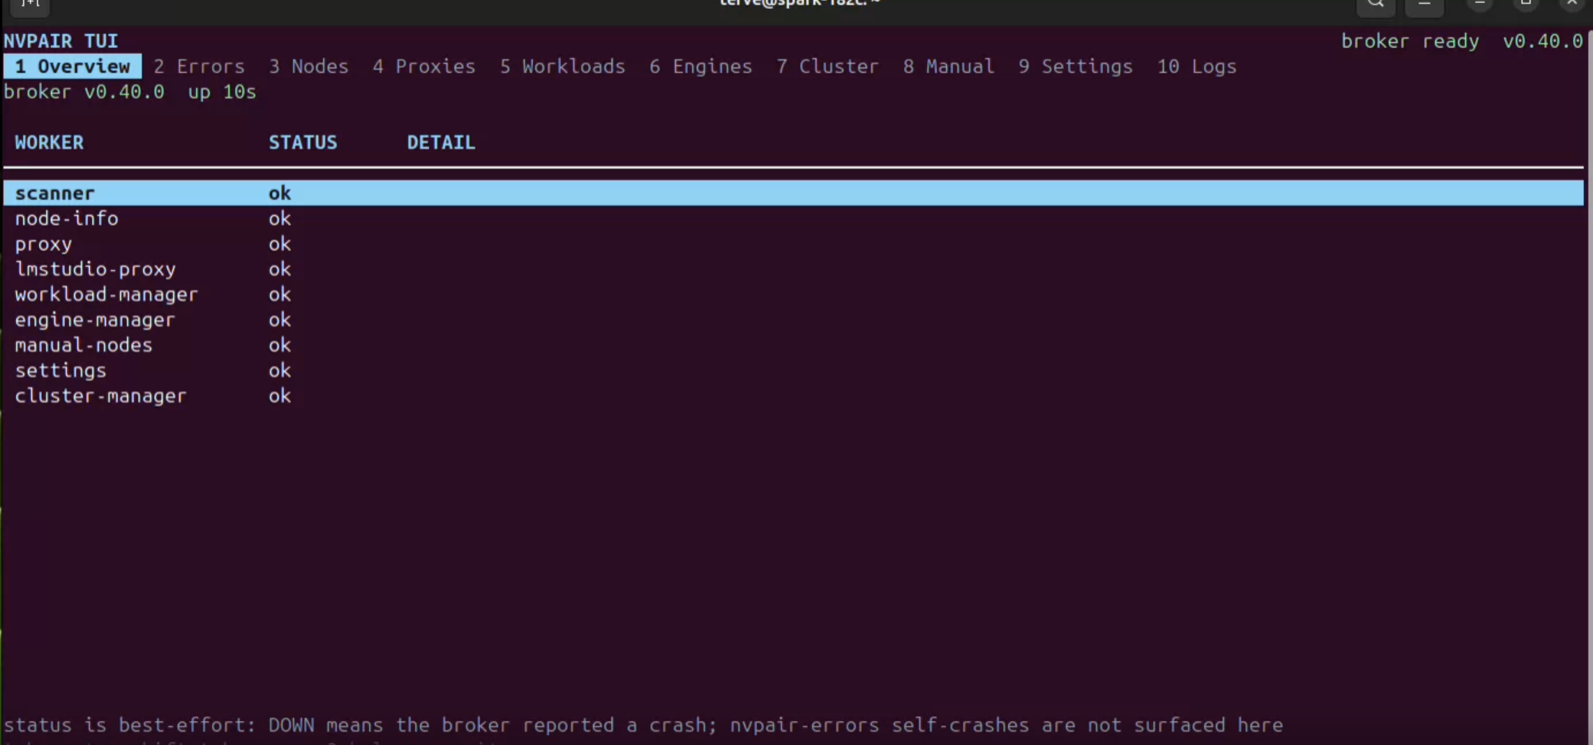
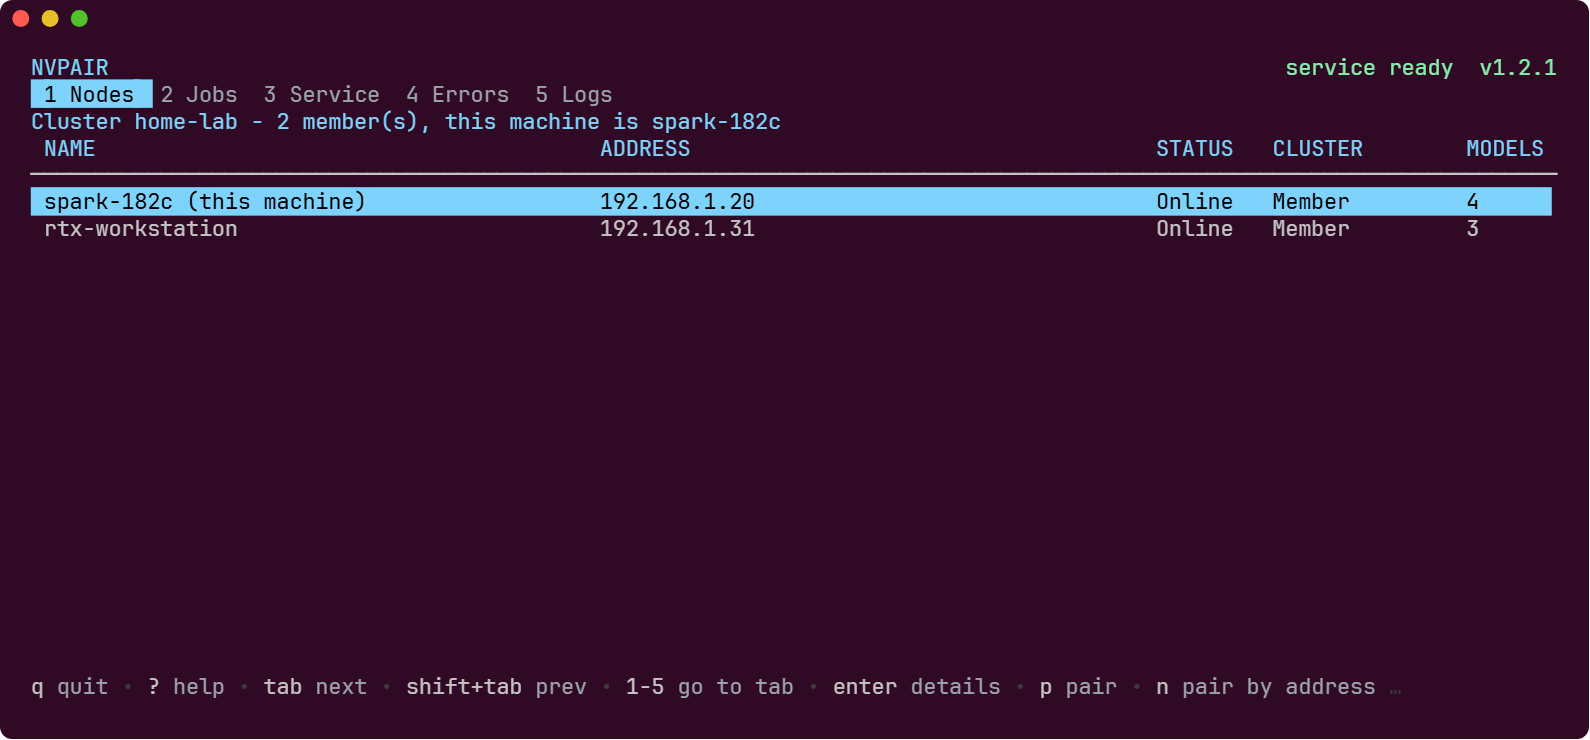
Cover llama.cpp across the docs and refresh the terminal interface screenshots (#151)
## Description

A documentation pass over the release that landed in `develop` with
#147, #148, #117, #150, #145, and #153. It covers llama.cpp everywhere
the docs list engines, replaces the terminal-interface screenshots of
the old ten-tab interface, and corrects docs that no longer match the
code.

The branch was replayed onto `develop` after the stack was
squash-merged, so it carries only the docs commits.

<!-- pair-release-intent:v1 -->
### Changelog title
n/a

### Changelog body
n/a

### Bumps
- services: none
- nvpair-cluster-manager: none
- nvpair-engine-manager: none
- nvpair-errors: none
- nvpair-job-scheduler: none
- nvpair-manual-nodes: none
- nvpair-node-info: none
- nvpair-node-scanner: none
- nvpair-node-settings: none
- nvpair-proxy: none
- nvpair-tui: none
- nvpair-ui-broker: none
- nvpair-workload-manager: none
<!-- /pair-release-intent:v1 -->

## Scope

**Terminal interface screenshots**
(`docs/assets/onboarding/terminal-interface/`)

- The three existing images showed the ten-tab interface from before
#117. They are replaced with renders of the current Nodes, pairing, and
Jobs views, at the same size as the originals.
- New `04-tui-node-detail.png`: a machine's Engines and Models panes
with Ollama, LM Studio, and llama.cpp. It is placed in "Look at One
Machine".
- The renders drive the real `ui` views and styles with sample data for
two machines, so the layout, columns, and footer are the interface's own
[…]

diff --git a/services/nvpair-tui/README.md b/services/nvpair-tui/README.md
@@ -33,7 +33,7 @@ of its own.
 | **Jobs** | Inference work across the cluster (`workloads:get-initial` plus the live `workloads:upsert` / `workloads:remove` stream), headed by the proxy endpoints local clients connect to. `FROM` and `RAN ON` are the job's `originatedFrom` and `scheduledOn` nodes. `a` toggles finished work. `t` starts or stops the Inference Demo — a sixty-second burst of synthetic traffic through those endpoints, which is why it lives here rather than with the service controls: the ports it needs are already on this tab and the jobs it produces land in the table below. |
 | **Service** | Broker version and uptime (`ping`), a row per supervised worker derived from `supervisor:subprocess-crashed:*` errors, the cluster name, the fleet log level (a picker over the four `applog` levels), and a confirmed data reset. The reset uninstalls the engines PAIR installed before it quits and deletes the data directory — engine files live outside that directory when a vendor installer chose their location — and keeps every engine's downloaded models. Ports are not here — they live on the node detail screen beside the engine each one serves. `force-ports` and `cluster-auto-sync` are persisted by `nvpair-node-settings` but not offered: nothing currently acts on either. |
 | **Errors** | The service-error datastore (`errors:get-initial` plus live `errors:update`); `c` clears the selected entry. Only entries this node reported are clearable: `errors:clear` is delete-by-id on the receiving node and cross-node propagation is unbuilt (`shared/errors` stamps `ClearedBy` for it and ignores it), so clearing a peer's entry is reverted by the next sync. The broker acknowledges the relay rather than the outcome, so the reply cannot be used to detect it — the key is withdrawn for a peer's entry instead, naming the node to clear it from. Node ids are resolved to names, and a line under the table carries the selected entry's engine, operation, model, and suggested action. |
-| **Logs** | The broker's and workers' stderr, with a substring filter (`/`), a follow toggle (`t`, for tail — `f` belongs to the viewport's paging), and save-to-file (`s`). |
+| **Logs** | The broker's and workers' stderr, plus this program's own log lines while it runs, with a substring filter (`/`, cleared with `c`), a follow toggle (`t`, for tail — `f` belongs to the viewport's paging), and save-to-file (`s`). |
 
 Diagnostics come last, errors before logs, which is the order you consult them
 in. The **Errors** tab carries its active count in its own label (`Errors (2)`),
@@ -86,11 +86,14 @@ ships in `cli-bin` and the app's updater replaces it.
 `enter` on a node opens a full-screen drill-down with two panes, switched with
 `h`/`l`:
 
-- **Engines** — install (`i`), start (`s`), stop (`x`), and, on this machine
-  only, restart (`r`), uninstall (`u`, confirmed with `y`), the engine's own port (`e`, via
-  `engine:set-port`), and the client-facing port of the proxy fronting it
-  (`p`, via `<prefix>:set-port`). Both ports are shown per engine because they
-  are easily confused and were previously configured on different tabs.
+- **Engines** — install (`i`), start (`s`), stop (`x`); the engine's own port
+  (`e`), the client-facing port of the proxy fronting it (`p`), and the startup
+  arguments (`a`), all written together through `engine:get-settings` /
+  `engine:preview-settings` / `engine:apply-settings`; and, on this machine
+  only, restart (`r`) and uninstall (`u`, confirmed with `y`). On this machine
+  both ports are shown per engine because they are easily confused; a peer's
+  screen shows the engine port only, though `p` still writes that peer's proxy
+  port.
 - **Models** — the inventory per engine with loaded state, plus browse-and-download
   (`p`), download by name (`n`), load (`enter`), eject (`e`), and delete (`d`,
   confirmed with `y`). Every destructive key arms on the first press and acts
@@ -104,9 +107,10 @@ one whose reply says it is `searchable` — llama.cpp's, a slice of Hugging Face
 `/` sends the query upstream instead, and `c` returns to the browse list.
 
 Both panes work on remote cluster peers through the engine manager's
-`engine:remote-*` methods. Restart, uninstall, and the port change need process
-ownership on the target host, so they are hidden on a peer rather than offered
-and then failed.
+`engine:remote-*` methods. Restart and uninstall need process ownership on the
+target host, so they are hidden on a peer rather than offered and then failed.
+The settings keys stay: the engine manager relays them, and whether a given
+engine accepts the write is its own answer.
 
 A remote node's models come from the discovery snapshot, which the broker
 enriches from each peer's engine manager — no extra request. This machine's come
@@ -136,13 +140,14 @@ installed `bin/` layout). Override with `--broker-path`:
 ```sh
 nvpair-tui                                   # broker is a sibling binary
 nvpair-tui --broker-path /opt/nvpair/bin/nvpair-ui-broker
-nvpair-tui --log-level debug                 # own logging (to stderr)
+nvpair-tui --log-level debug                 # own logging (Logs tab while running)
 nvpair-tui --appearance light                # if the colours come out wrong
 nvpair-tui --version
 ```
 
-Logging goes to stderr (the broker's logs are shown inside the **Logs**
-tab, not on the terminal), so it never corrupts the full-screen UI.
+While the full-screen UI runs, its own log lines go to the **Logs** tab beside
+the broker's, so nothing is drawn over the display; before startup and after
+exit they go to stderr.
 
 ### Colours
 

diff --git a/services/nvpair-ui-broker/README.md b/services/nvpair-ui-broker/README.md
@@ -120,7 +120,7 @@ Within the process the boundaries are finer — a facade that loses its bind
 race, cannot be moved to a free port, or panics while handling a request is
 withdrawn or answered with an error on its own, leaving the others serving.
 
-Ollama's standalone default is `:11435`; with managed port ownership enabled (the default), the broker starts settings and engine-manager first, claims `:11434` with that facade, and only then moves a stopped default-port Ollama backend to a free port. Custom backend ports are preserved. When the inherited `OLLAMA_HOST` names a distinct local plaintext port, the broker also gives the facade that normalized loopback-only alias so clients already using the variable enter the same routing path; `localhost` reserves both canonical loopback families atomically, while remote and HTTPS targets are ignored. The alias port is reserved against every configured engine, local or remote engine start override, every facade's control plane, and the managed Ollama and LM Studio backend port plans, so a backend that has to move can never land on the alias. A running Ollama or unknown owner on either requested port is never stopped or moved: the primary uses a safe fallback when needed, and an occupied alias remains with its owner while the broker reports a warning.
+Ollama's standalone default is `:11435`; with managed port ownership enabled (the default), the broker starts settings and engine-manager first, claims `:11434` with that facade, and only then moves a stopped default-port Ollama backend to a free port. Custom backend ports are preserved. When the inherited `OLLAMA_HOST` names a distinct local plaintext port, the broker also gives the facade that normalized loopback-only alias so clients already using the variable enter the same routing path; `localhost` reserves both canonical loopback families atomically, while remote and HTTPS targets are ignored. The alias port is reserved against every configured engine, local or remote engine start override, every facade's control plane, and every managed engine's backend port plan, so a backend that has to move can never land on the alias. A running Ollama or unknown owner on either requested port is never stopped or moved: the primary uses a safe fallback when needed, and an occupied alias remains with its owner while the broker reports a warning.
 
 llama.cpp is a managed engine: engine-manager owns its lifecycle and starts it
 on its configured loopback port, `:8081` by default. The broker places its
@@ -429,7 +429,7 @@ Two relay-specific error cases:
 
 #### `ollama-proxy:set-port` / `lmstudio-proxy:set-port` / `llamacpp-proxy:set-port`
 
-**Intercepted, not relayed verbatim.** For every engine profile, a port-only caller — `nvpair-tui` is the one in tree — gets to move a single port without rendering the whole launch settings form, but the change still runs through the same authoritative settings operation the desktop editor uses, so a port set from the terminal cannot diverge from one set from the UI. The namespace selects the engine. The broker reads that engine's current settings, substitutes the requested proxy port, and applies the result while preserving the server port and launch arguments. Accepted settings are saved in the settings journal.
+**Intercepted, not relayed verbatim.** For every engine profile, a port-only caller (none in tree; `nvpair-tui` uses `engine:apply-settings`) gets to move a single port without rendering the whole launch settings form, but the change still runs through the same authoritative settings operation the desktop editor uses, so a port set from the terminal cannot diverge from one set from the UI. The namespace selects the engine. The broker reads that engine's current settings, substitutes the requested proxy port, and applies the result while preserving the server port and launch arguments. Accepted settings are saved in the settings journal.
 
 A malformed request, missing port, or port outside `1`–`65535` is refused with error `-32602 "port must be between 1 and 65535"`. A **requested port that is already in use or reserved** by a PAIR service, another configured engine/proxy, or the engine's own server port is refused with error `-32000 "resolve settings errors and port conflicts before applying"`. The broker does not pick a different port on the caller's behalf. Retry with a free port. A request that collides with an inherited `OLLAMA_HOST` alias is refused with its own message naming that alias. The response echoes the requested port (`{"port": <requested>}`) once it is bound.
 

diff --git a/services/nvpair-job-scheduler/spec.md b/services/nvpair-job-scheduler/spec.md
@@ -55,9 +55,9 @@ capacity, model locality, latency, and affinity can grow later behind the same
 - **Simultaneous local burst**: before each auto-routed inference forward, the
   proxy atomically increments a local reservation for its chosen node. Concurrent
   requests therefore see one another even before workload feedback completes.
-- **Cross-engine contention**: an Ollama workload and an LM Studio workload both
-  consume the destination node's execution resources, so either one changes both
-  engine outputs.
+- **Cross-engine contention**: Ollama, LM Studio, and llama.cpp workloads all
+  consume the destination node's execution resources, so any one of them changes
+  every engine output.
 - **Periodic reconciliation**: the runtime-adjustable timer recomputes the same
   order as a safety net even when no fresh event arrives.
 - **Load shifts**: as a node drains it rises toward the top; as it fills it sinks; a
@@ -100,7 +100,7 @@ capacity, model locality, latency, and affinity can grow later behind the same
 - **Manual pin precedence (decided — manual pin wins).** A user `node/select` pin
   overrides the list; the list governs only auto routing (§7.3).
 - **`node/set-priority` proxy semantics (decided — GPU-aware reservations).**
-  Both proxies store the ordered nodes and optional ranks. For auto-routed
+  Every engine facade stores the ordered nodes and optional ranks. For auto-routed
   model-bearing inference they atomically minimize
   `rank.pending + rank.gpuPressure + localReservations` within the best
   model-eligibility tier,
@@ -147,7 +147,7 @@ capacity, model locality, latency, and affinity can grow later behind the same
   (`discovery:nodes-changed`).
 - After each meaningful input change, and on a fixed reconciliation interval
   (default 1 s, runtime-adjustable), compute one node-wide GPU-aware order (§7.2)
-  and publish it through both engine outputs. **Emit `schedule:priority` only when
+  and publish it through every engine output. **Emit `schedule:priority` only when
   its order, pending counts, or pressure changed** (a forced `scheduler:tick`
   re-emits regardless).
 - Emit `errors:report` / `errors:clear` for the Broker to forward to `nvpair-errors`
@@ -157,7 +157,7 @@ capacity, model locality, latency, and affinity can grow later behind the same
 - No network listener, no mDNS, no port — stdio/`--ipc` only.
 - Never addresses a proxy; all delivery/liveness/resync is the Broker's (§7.4).
 - Stateless across restarts; recomputed from live inputs.
-- A fault on one engine must not block the other or crash the loop.
+- A fault on one engine must not block the others or crash the loop.
 - Windows / macOS / Linux × amd64 / arm64. Serialize `stdout` so frames never
   interleave.
 
@@ -205,7 +205,7 @@ Requests (Broker → scheduler):
 
 | Method | Params | Result |
 |--------|--------|--------|
-| `scheduler:get-status` | — | `{ interval_ms, engines: { ollama: EngineSchedule, lmstudio: EngineSchedule } }` |
+| `scheduler:get-status` | — | `{ interval_ms, engines: { ollama: EngineSchedule, lmstudio: EngineSchedule, llamacpp: EngineSchedule } }` |
 | `scheduler:get-interval` | — | `{ interval_ms }` |
 | `scheduler:set-interval` | `{ interval_ms }` | `{ interval_ms }` — live; clamped to the floor (§7.5); effective next tick |
 | `scheduler:tick` | — | `{ ticked: true }` — force an immediate recompute + re-emit (tests/debug) |
@@ -215,7 +215,7 @@ Requests (Broker → scheduler):
 `EngineSchedule`:
 ```json
 {
-  engine: string          // "ollama" | "lmstudio"
+  engine: string          // "ollama" | "lmstudio" | "llamacpp"
   emitted: [NodeRank]      // last order emitted (empty if none yet)
   lastEmittedAt: number    // epoch ms; 0 if never
 }

diff --git a/services/installer/linux/INSTALL.md b/services/installer/linux/INSTALL.md
@@ -13,7 +13,7 @@ API and supervises the workers under `bin/`.
 ## 1. Extract
 
 ```bash
-tar xf NVIDIA-Personal-AI-Router-<version>-linux-amd64.tar.gz
+tar xf NVIDIA-Personal-AI-Router-<version>-linux-amd64.tar.gz   # or -linux-arm64
 cd NVIDIA-Personal-AI-Router-<version>
 ```
 
@@ -32,7 +32,8 @@ NVIDIA-Personal-AI-Router-<version>/
 │   ├── nvpair-engine-manager
 │   ├── nvpair-node-settings
 │   ├── nvpair-cluster-manager
-│   └── nvpair-job-scheduler
+│   ├── nvpair-job-scheduler
+│   └── nvpair-tui                    # terminal interface; starts the broker beside it
 └── INSTALL.md                     # this file
 ```
 
@@ -64,9 +65,14 @@ The workers store configuration in `~/.config/Nvidia Corporation/Personal AI Rou
 (manual-node list, log-level preference, cluster identity/pins, etc.). Remove
 that directory too if you want a fully clean slate.
 
+Downloaded models are not in either directory. Each engine keeps them in its own
+store — `~/.ollama`, `~/.lmstudio/models`, and `~/.llamacpp` — so deleting the
+bundle or the configuration directory leaves them in place.
+
 ## Requirements
 
-- 64-bit Linux on `x86_64`. ARM builds are not produced yet.
+- 64-bit Linux on `x86_64` or `arm64` (`aarch64`). Use the archive whose name
+  matches your machine.
 - mDNS on UDP 5353. The workers run their own — a custom per-interface responder
   (`nvpair-shared/mdns`) plus a `grandcat/zeroconf` browser (`nvpair-shared/discovery`),
   bound with `SO_REUSEADDR` — and coexist fine with a system responder like
@@ -77,9 +83,10 @@ that directory too if you want a fully clean slate.
 - **No nodes discovered**: confirm UDP 5353 isn't blocked by your firewall and
   that other machines on the LAN are actually advertising. Run the broker with
   `--log-level debug` to see live discovery logs on stderr.
-- **"Bind: address already in use"**: port 11435 is the Ollama proxy port;
-  another instance of the proxy or another process is holding it. Find the
-  offender with `ss -tlnp | grep 11435` and stop or kill it.
+- **"Bind: address already in use"**: the proxies listen on `11434` (Ollama),
+  `1234` (LM Studio), and `8080` (llama.cpp); another instance of the proxy or
+  another process is holding one of them. Find the offender with
+  `ss -tlnp | grep -E ':(11434|1234|8080)\b'` and stop or kill it.
 
 Report issues at the project's tracker. Include the broker's `--log-level debug`
 output and your distro / kernel version.

diff --git a/services/nvpair-workload-manager/spec.md b/services/nvpair-workload-manager/spec.md
@@ -68,7 +68,7 @@ Tracks inference workloads cluster-wide as they are queued, executed, and retire
   model: string
   engine: EngineType
   state: WorkloadState
-  runId?: string          // Producing process's nonce, minted at proxy startup. Optional/additive (§7.3). Part of the dedup key: `id` is a per-process counter, both engine proxies count from 1, and it resets on restart, so runId is what keeps a reused id from colliding with an older workload. Absent from a producer that does not stamp it, in which case dedup degrades to a coarser key.
+  runId?: string          // Producing process's nonce, minted at proxy startup. Optional/additive (§7.3). Part of the dedup key: `id` is a per-facade counter, every engine facade counts from 1, and it resets on restart, so runId is what keeps a reused id from colliding with an older workload. Absent from a producer that does not stamp it, in which case dedup degrades to a coarser key.
   seq?: number            // Producer's event counter for this workload, from 1, in emission order. Optional/additive (§7.3). Part of the dedup key, and the component that makes it exact: the index is a permanent set, so any key derived only from a workload's current shape collides when the workload revisits a shape it already had (a retry re-dispatching to a node it already tried). Absent from a producer that does not stamp it, in which case dedup degrades to shape-only and such a repeat is dropped as a duplicate.
   originatedFrom: string  // Owner/origin node of the workload (its identity half of the (originatedFrom, id) global key). Distinct from scheduledOn, the node it was routed to.
   scheduledOn?: string  // Node the workload was routed to / scheduled on (where it actually ran), as opposed to originatedFrom (where it came from). Supplied by the Broker/proxy and passed through opaquely. Optional/additive (§7.3) — absent until a target is chosen (e.g. a still-queued workload:submitted).

diff --git a/services/nvpair-proxy/README.md b/services/nvpair-proxy/README.md
@@ -158,7 +158,7 @@ A browser preflight (OPTIONS with Origin and Access-Control-Request-Method) quer
 
 Combined model lists forward the caller's origin and end-to-end headers, excluding Authorization and Cookie so credentials are not shared across engines. Multi-target preflights apply the same credential filtering. With an Origin header, every responding engine must return a valid list and permit sharing: one denial returns 403 and one invalid list returns 502, without partial inventory. An invalid-list error retains the combined CORS permissions when every responding engine allows the origin. Unavailable engines are skipped, with 502 returned when none can answer. Successful lists combine origin/credential permissions and Vary requirements. Requests without Origin retain partial aggregation when some inventories are unavailable. Engines without CORS support remain unavailable to cross-origin browser clients through PAIR.
 
-Both engine facades use nvpair-shared/cors. Neither facade reads engine environment variables or parses launch commands to determine CORS policy.
+Every engine facade uses nvpair-shared/cors. No facade reads engine environment variables or parses launch commands to determine CORS policy.
 
 One limit is outside the proxy's control: current Chromium-based browsers gate a request from a public origin to a local or loopback address behind the user's [Local Network Access](https://chromestatus.com/feature/5152728072060928) permission, which replaced the old server-side opt-in header. No header the proxy sends can grant that. A hosted page needs the permission plus a `fetch(url, { targetAddressSpace: 'loopback' })` annotation; a page served from the local machine is unaffected.
 

diff --git a/README.md b/README.md
@@ -75,7 +75,7 @@ Release downloads include:
 - a macOS disk image.
 
 **On Windows and macOS,** double-click the download and follow the installer's
-usual prompts — on macOS that means dragging **PAIR** to your
+usual prompts — on macOS that means dragging **NVIDIA PAIR** to your
 **Applications** folder.
 
 **On Linux,** install the package from the directory you downloaded it into:
@@ -101,9 +101,7 @@ you want by its full filename instead.
 
 - **Get an engine running.** On the node's card, open **Engine settings** and
   select **Install** next to Ollama, LM Studio, or llama.cpp. PAIR downloads and
-  sets the engine up for you, so nothing needs to be in place beforehand. The
-  llama.cpp install is a separate, on-demand download and is not selected during
-  first-run setup by default.
+  sets the engine up for you, so nothing needs to be in place beforehand.
 
   ![The Install engines dialog with Ollama downloading, reporting progress as it installs.](docs/assets/onboarding/engine-lifecycle/01-engine-installing.png)
 
@@ -215,7 +213,8 @@ If this machine belongs to a cluster, deal with membership too — otherwise the
 other nodes keep listing it as a member. You have two options:
 
 - **Leave from this machine** before uninstalling: **Settings → Cluster →
-  Leave**, or press `L` on the terminal interface's **Cluster** tab.
+  Leave**, or press `l` on the terminal interface's **Nodes** tab and confirm
+  with `y`.
 - **Remove it from another node**, which any member can do from
   **Settings → Cluster** by removing that node from the list.
 

diff --git a/services/installer/macos/INSTALL.md b/services/installer/macos/INSTALL.md
@@ -51,6 +51,10 @@ you want a fully clean slate:
 rm -rf "$HOME/Library/Application Support/Nvidia Corporation/Personal AI Router"
 ```
 
+Downloaded models are not in either directory. Each engine keeps them in its own
+store — `~/.ollama`, `~/.lmstudio/models`, and `~/.llamacpp` — so deleting the
+bundle or the configuration directory leaves them in place.
+
 ## Requirements
 
 - macOS 12 (Monterey) or newer.
@@ -76,8 +80,10 @@ xattr -dr com.apple.quarantine /path/to/NVIDIA-Personal-AI-Router-<version>
   Network → Firewall, and that other machines on the LAN are actually
   advertising. Run the broker with `--log-level debug` to see live discovery
   logs on stderr.
-- **"Bind: address already in use"**: another process is holding port 11435.
-  Find the offender with `lsof -i :11435` and stop it.
+- **"Bind: address already in use"**: the proxies listen on `11434` (Ollama),
+  `1234` (LM Studio), and `8080` (llama.cpp); another instance of the proxy or
+  another process is holding one of them. Find the offender with
+  `lsof -nP -iTCP:11434 -iTCP:1234 -iTCP:8080 -sTCP:LISTEN` and stop it.
 
 Report issues at the project's tracker. Include the broker's `--log-level debug`
 output and your macOS version (`sw_vers`) and architecture (`uname -m`).

diff --git a/services/nvpair-workload-manager/README.md b/services/nvpair-workload-manager/README.md
@@ -81,7 +81,7 @@ Defined in [`workload.go`](workload.go):
 | --- | --- |
 | `id` | Stable workload identifier |
 | `model`, `engine` | What was requested and by which engine |
-| `runId` | Producing process's nonce, minted at proxy startup. Part of the dedup key: `id` is a per-process counter that both engine proxies start at 1 and that resets on restart, so `runId` keeps a reused id from colliding with an older workload |
+| `runId` | Producing process's nonce, minted at proxy startup. Part of the dedup key: `id` is a per-facade counter that every engine facade starts at 1 and that resets on restart, so `runId` keeps a reused id from colliding with an older workload |
 | `state` | `queued`, `running`, `completed`, `failed`, or `cancelled` |
 | `originatedFrom` | Node the request entered the cluster on |
 | `scheduledOn` | Node it was routed to; absent until a target is chosen |

diff --git a/desktop/docs/services-parity.md b/desktop/docs/services-parity.md
@@ -308,8 +308,9 @@ the engine simply shows as stopped and then running.
 
 A local `pull_model` streams live download progress: the engine-manager routes
 `engine:action{pull_model}` through its streaming pull path and emits
-`engine:pull-progress` (`{ engine, op, stage, percent, message }`) — the local
-counterpart of `engine:remote-progress`. Personal AI Router consumes it in
+`engine:pull-progress` (`{ engine, op, stage, percent?, message }`; `percent` is
+omitted when the engine cannot measure progress) — the local counterpart of
+`engine:remote-progress`. Personal AI Router consumes it in
 `applyLocalEngineProgress` (`modular-supervisor.ts` → `modular-state.ts`),
 backfilling the dispatched model (the frame carries none) and advancing the
 optimistic pull entry's percent in place, so a local pull shows "Pulling · N%"

diff --git a/services/nvpair-engine-manager/README.md b/services/nvpair-engine-manager/README.md
@@ -58,6 +58,7 @@ Requests (caller → service):
 | `engine:status` | `{ engine }` | `EngineStatus` |
 | `engine:install` | `{ engine, start?, port?, bind? }` | `EngineStatus` (after install; also starts it if `start:true`) |
 | `engine:uninstall` | `{ engine }` | `EngineStatus` (after removal) |
+| `engine:uninstall-managed` | — | `{ engines: [{ engine, removed, error? }] }` — removes every engine this service installed, selected by its install marker, each through the `engine:uninstall` path. Backs "reset all data" in both clients; downloaded models are kept. Neither `removed` nor `error` means the engine was left alone as not ours |
 | `engine:start` | `{ engine, port?, bind? }` | `EngineStatus` (after readiness) |
 | `engine:stop` | `{ engine }` | `EngineStatus` |
 | `engine:restart` | `{ engine }` | `EngineStatus` |

diff --git a/services/nvpair-errors/README.md b/services/nvpair-errors/README.md
@@ -103,6 +103,7 @@ Starter ids:
 |---|---|---|
 | `ollama-proxy:upstream-unreachable:<node-id>` | ollama-proxy | an upstream node dropped out of discovery |
 | `lmstudio-proxy:upstream-unreachable:<node-id>` | lmstudio-proxy | an upstream node dropped out of discovery |
+| `llamacpp-proxy:upstream-unreachable:<node-id>` | llamacpp-proxy | an upstream node dropped out of discovery |
 | `manual-nodes:probe-failed:<node-id>` | nvpair-manual-nodes | a manual node has failed N consecutive probes |
 | `engine-manager:install-failed:<engine>` | nvpair-engine-manager | installing the engine failed |
 | `engine-manager:pull-failed:<engine>:<model>` | nvpair-engine-manager | pulling a model for the engine failed |
